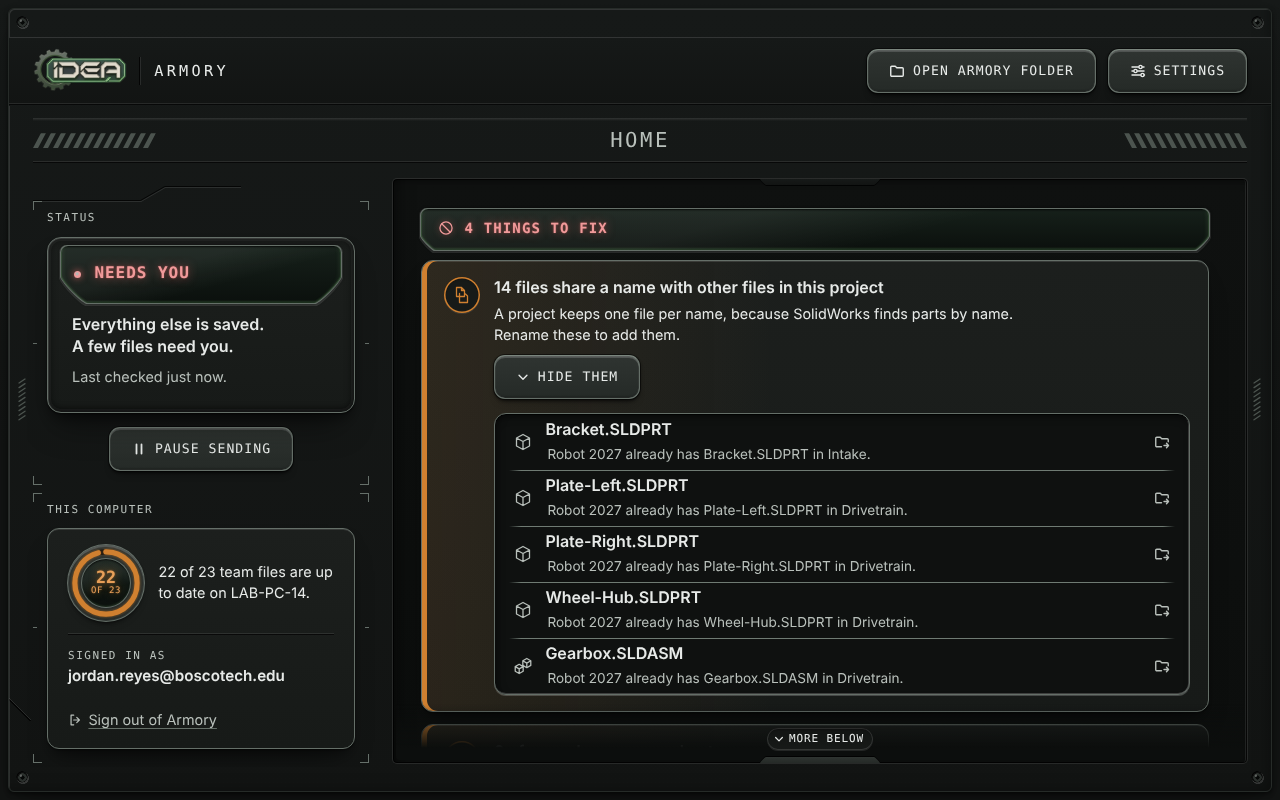
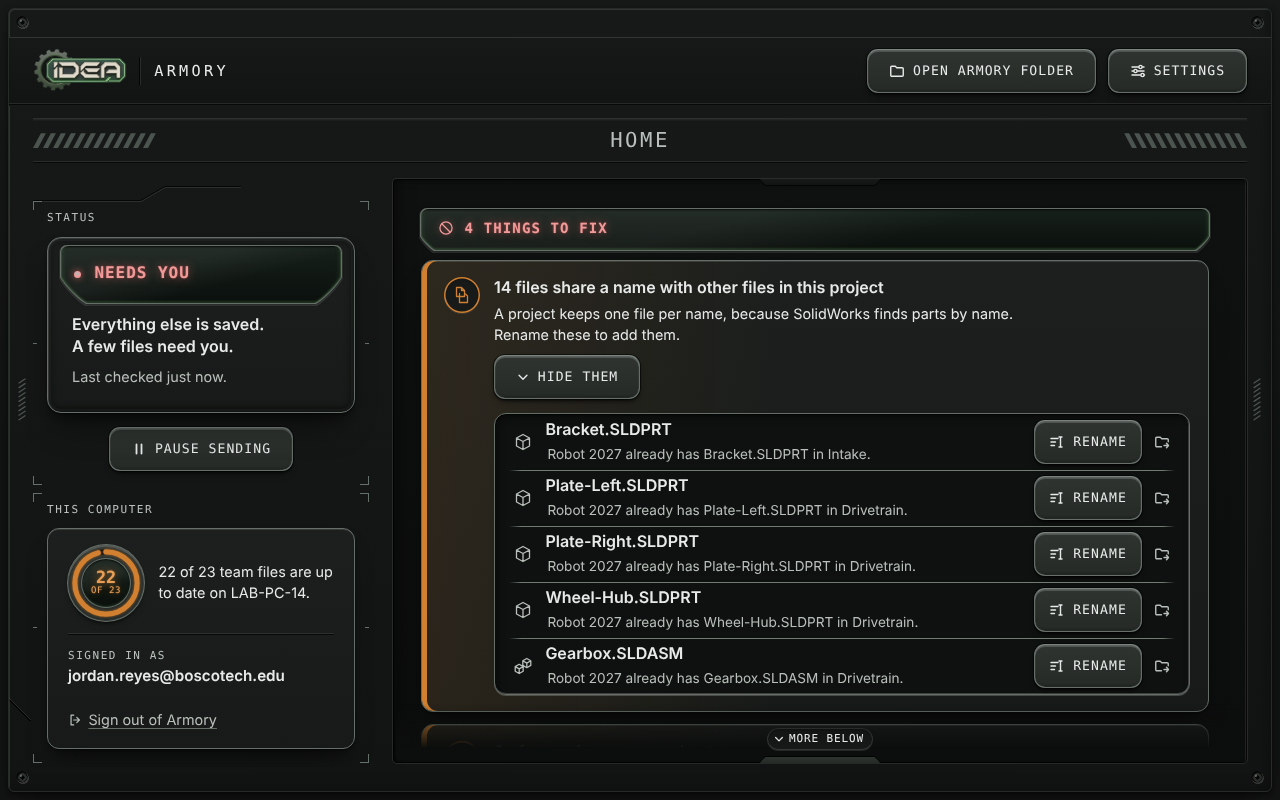
renameFile (addendum 7): a file that shares a name is renamed in the app
The page message renameFile {path, newName, requestId} is in
BridgeMessages, Bridge.cs (validated like every action) and bridge.js
(lists, required fields, JSDoc and the demo transport). Each item of a
"shares a name" notice has a Rename key that asks for the new name in
the small dialog. The host sends it to SyncEngine.RenameFileAsync: a
file Armory does not have is renamed on this computer and offered again
under its new name; a file in Armory is moved for everyone through
armory_move_file, and not while someone else has it checked out.
check-ui sends all 23 page messages (CHECK-UI PASS); the four
groupedNoticesExpanded screens are re-rendered with the Rename keys.

Claude-Session: https://claude.ai/code/session_011o56v8JVA7WxDbS87VqBJ6

Changed region(s): [[0.7812, 0.5, 0.9062, 0.875]]

diff --git a/src/Armory.Agent/wwwroot/app.js b/src/Armory.Agent/wwwroot/app.js
@@ -955,7 +955,7 @@
 				cls: 'items',
 				label: n.title,
 				items: n.items.map(function (it) {
-					return { kind: 'item', notice: n.key, item: it };
+					return { kind: 'item', notice: n.key, noticeKind: n.kind, item: it };
 				}),
 				key: function (x) {
 					return 'ni:' + x.notice + ':' + (x.item.fileId || x.item.path);
@@ -982,6 +982,12 @@
 	function itemRow(x, i, active) {
 		var it = x.item;
 		var k = 'ni:' + x.notice + ':' + (it.fileId || it.path);
+		// A file that shares a name can be renamed right here, then it is added by itself.
+		var extra =
+			x.noticeKind === 'nameShared'
+				? '<button class="key row-key" type="button" data-rove="rename" data-action="askRenameFile" data-path="' + esc(it.path) + '" data-key="rename-' + esc(k) + '"' +
+				  ' aria-label="Rename ' + esc(it.name) + '" title="Rename ' + esc(it.name) + '">' + icon('rename') + '<span class="key-word">Rename</span></button>'
+				: '';
 		return rowHtml({
 			i: i,
 			vkey: k,
@@ -990,6 +996,7 @@
 			k: k,
 			name: it.name,
 			line: '<span class="row-meta">' + esc(it.detail || whereIs(it.path)) + '</span>',
+			extra: extra,
 			go: it.fileId ? 'chev-right' : 'folder-go'
 		});
 	}
@@ -1569,6 +1576,11 @@
 			body = 'Rename ' + c.name + ' in ' + c.parentWhere + '. Everyone on the team sees the new name, and its files keep their history.';
 			field = fieldHtml('New name', c.name);
 			ok = 'Rename';
+		} else if (kind === 'renameFile') {
+			title = 'Rename file';
+			body = 'Rename ' + c.name + ' in ' + c.where + '. A project keeps one file per name, so pick a name no other file in the project has.';
+			field = fieldHtml('New name', c.name);
+			ok = 'Rename';
 		} else if (kind === 'deleteFolder') {
 			title = 'Delete folder';
 			body =
@@ -1605,12 +1617,13 @@
 		);
 	}
 
-	/** Why a folder name won't do, in plain words, or null when it will. */
+	/** Why a folder or file name won't do, in plain words, or null when it will. */
 	function nameProblem(name, c) {
-		if (!name) return 'Type a name for the folder.';
-		if (BAD_NAME.test(name)) return 'A folder name can\'t use any of these: \\ / : * ? " < > |';
-		if (/^\.+$/.test(name) || /[. ]$/.test(name)) return 'A folder name can\'t end with a dot or a space.';
-		if (c.kind === 'renameFolder' && name === c.name) return 'That is already its name.';
+		var what = c.kind === 'renameFile' ? 'file' : 'folder';
+		if (!name) return 'Type a name for the ' + what + '.';
+		if (BAD_NAME.test(name)) return 'A ' + what + ' name can\'t use any of these: \\ / : * ? " < > |';
+		if (/^\.+$/.test(name) || /[. ]$/.test(name)) return 'A ' + what + ' name can\'t end with a dot or a space.';
+		if ((c.kind === 'renameFolder' || c.kind === 'renameFile') && name === c.name) return 'That is already its name.';
 		var taken = (c.siblings || []).some(function (s) {
 			return s.toLowerCase() === name.toLowerCase() && !(c.kind === 'renameFolder' && s.toLowerCase() === c.name.toLowerCase());
 		});
@@ -1622,7 +1635,7 @@
 		var a = ui.ask;
 		if (!a) return;
 		var c = a.ctx;
-		if (a.kind === 'newFolder' || a.kind === 'renameFolder') {
+		if (a.kind === 'newFolder' || a.kind === 'renameFolder' || a.kind === 'renameFile') {
 			var input = ask.querySelector('#ask-name');
 			var name = input.value.trim();
 			var problem = nameProblem(name, { kind: a.kind, name: c.name, siblings: c.siblings, where: c.where, parentWhere: c.parentWhere });
@@ -1632,7 +1645,8 @@
 				input.focus();
 				return;
 			}
-			if (a.kind === 'newFolder') act('createFolder', { projectId: c.projectId, parent: c.folder, name: name });
+			if (a.kind === 'renameFile') act('renameFile', { path: c.path, newName: name });
+			else if (a.kind === 'newFolder') act('createFolder', { projectId: c.projectId, parent: c.folder, name: name });
 			else {
 				act('renameFolder', { projectId: c.projectId, folder: c.folder, newName: name });
 				// When the host's next view has the new name, the browser goes with it.
@@ -1675,6 +1689,12 @@
 		if (kind !== 'newFolder' && !c.folder) return;
 		c.siblings = kind === 'newFolder' ? c.siblingsHere : c.siblingsParent;
 		openAsk(kind, c, from);
+	}
+
+	/** Rename one file (a file that shares a name with another in its project). */
+	function askRenameFile(path, from) {
+		var parts = String(path).split('/');
+		openAsk('renameFile', { path: path, name: parts[parts.length - 1], where: parts.slice(0, -1).join(' \u203a '), siblings: [] }, from);
 	}
 
 	/** Take back one file, or the picked files someone else has. */
@@ -2191,6 +2211,9 @@
 				break;
 			case 'askTakeBack':
 				askTakeBack([findRow(el.getAttribute('data-file-id'))], from);
+				break;
+			case 'askRenameFile':
+				askRenameFile(path, from);
 				break;
 			case 'promptCheckOut':
 				act('checkOut', { paths: [path], open: false });

diff --git a/src/Armory.Agent/wwwroot/bridge.js b/src/Armory.Agent/wwwroot/bridge.js
@@ -258,13 +258,14 @@
 	 *   checkOut: { paths, open }             (files or folders, vault-relative)
 	 *   checkIn: { paths }    undoCheckOut: { paths }    takeBack: { fileId }
 	 *   createFolder: { projectId, parent, name }    renameFolder: { projectId, folder, newName }
-	 *   deleteFolder: { projectId, folder }   addFiles: { projectId, folder }
+	 *   deleteFolder: { projectId, folder }   renameFile: { path, newName }
+	 *   addFiles: { projectId, folder }
 	 *   dropFiles: { projectId, folder }      (sent with the dropped File objects)
 	 *   dismissNotice: { key }
 	 *   saveSettings: { vaultRoot, startAtSignIn, theme }
 	 * @typedef {'ready' | 'connect' | 'cancelConnect' | 'signOut' | 'pause' | 'resume'
 	 *   | 'openVault' | 'openFile' | 'launchFile' | 'showInFolder' | 'checkOut' | 'checkIn'
-	 *   | 'undoCheckOut' | 'takeBack' | 'createFolder' | 'renameFolder' | 'deleteFolder'
+	 *   | 'undoCheckOut' | 'takeBack' | 'createFolder' | 'renameFolder' | 'deleteFolder' | 'renameFile'
 	 *   | 'addFiles' | 'dropFiles' | 'dismissNotice' | 'saveSettings' | 'chooseVaultRoot'} PageMessageType
 	 */
 
@@ -286,7 +287,7 @@
 	/* ------------------------------------------------------- Message lists */
 
 	/** Page to host message types (BRIDGE.md, "Page to host"). */
-	var PAGE_TO_HOST = ['ready', 'connect', 'cancelConnect', 'signOut', 'pause', 'resume', 'openVault', 'openFile', 'launchFile', 'showInFolder', 'checkOut', 'checkIn', 'undoCheckOut', 'takeBack', 'createFolder', 'renameFolder', 'deleteFolder', 'addFiles', 'dropFiles', 'dismissNotice', 'saveSettings', 'chooseVaultRoot'];
+	var PAGE_TO_HOST = ['ready', 'connect', 'cancelConnect', 'signOut', 'pause', 'resume', 'openVault', 'openFile', 'launchFile', 'showInFolder', 'checkOut', 'checkIn', 'undoCheckOut', 'takeBack', 'createFolder', 'renameFolder', 'deleteFolder', 'renameFile', 'addFiles', 'dropFiles', 'dismissNotice', 'saveSettings', 'chooseVaultRoot'];
 
 	/** Host to page message types (BRIDGE.md, "Host to page"). */
 	var HOST_TO_PAGE = ['view', 'fileDetail', 'activity', 'actionResult'];
@@ -303,6 +304,7 @@
 		createFolder: ['projectId', 'parent', 'name'],
 		renameFolder: ['projectId', 'folder', 'newName'],
 		deleteFolder: ['projectId', 'folder'],
+		renameFile: ['path', 'newName'],
 		addFiles: ['projectId', 'folder'],
 		dropFiles: ['projectId', 'folder'],
 		dismissNotice: ['key'],
@@ -310,7 +312,7 @@
 	};
 
 	/** Actions: each carries a requestId, and the host answers it with one actionResult. */
-	var ACTIONS = ['launchFile', 'checkOut', 'checkIn', 'undoCheckOut', 'takeBack', 'createFolder', 'renameFolder', 'deleteFolder', 'addFiles', 'dropFiles'];
+	var ACTIONS = ['launchFile', 'checkOut', 'checkIn', 'undoCheckOut', 'takeBack', 'createFolder', 'renameFolder', 'deleteFolder', 'renameFile', 'addFiles', 'dropFiles'];
 
 	/* ----------------------------------------------------------- Plumbing */
 
@@ -625,6 +627,26 @@
 					refreshMine();
 					postView();
 					result(message, true, 'Deleted ' + message.folder.split('/').pop() + ' and the ' + words(gone, 'file', 'files') + ' in it. Their history is kept.');
+					break;
+				case 'renameFile':
+					// A file that shares a name is renamed here; it then has its own name to be added under.
+					var renamedFrom = message.path.split('/').pop();
+					view.notices = view.notices
+						.map(function (n) {
+							var left = n.items.filter(function (it) {
+								return it.path !== message.path;
+							});
+							if (left.length === n.items.length) return n;
+							var copy = clone(n);
+							copy.items = left;
+							copy.count = Math.max(0, n.count - 1);
+							return copy;
+						})
+						.filter(function (n) {
+							return n.count > 0;
+						});
+					postView();
+					result(message, true, 'Renamed ' + renamedFrom + ' to ' + message.newName + '.');
 					break;
 				case 'dismissNotice':
 					view.notices = view.notices.filter(function (n) {

diff --git a/src/Armory.Agent/Bridge.cs b/src/Armory.Agent/Bridge.cs
@@ -17,6 +17,7 @@ internal sealed record TakeBackMessage(string? FileId, string? RequestId);
 internal sealed record CreateFolderMessage(string? ProjectId, string? Parent, string? Name, string? RequestId);
 internal sealed record RenameFolderMessage(string? ProjectId, string? Folder, string? NewName, string? RequestId);
 internal sealed record DeleteFolderMessage(string? ProjectId, string? Folder, string? RequestId);
+internal sealed record RenameFileMessage(string? Path, string? NewName, string? RequestId);
 internal sealed record AddFilesMessage(string? ProjectId, string? Folder, string? RequestId);
 internal sealed record DropFilesMessage(string? ProjectId, string? Folder, string? RequestId);
 internal sealed record DismissNoticeMessage(string? Key);
@@ -61,6 +62,7 @@ internal sealed class Bridge(AgentHost host, IBridgeWindow window, AgentLog log)
         [BridgeMessages.CreateFolder] = typeof(CreateFolderMessage),
         [BridgeMessages.RenameFolder] = typeof(RenameFolderMessage),
         [BridgeMessages.DeleteFolder] = typeof(DeleteFolderMessage),
+        [BridgeMessages.RenameFile] = typeof(RenameFileMessage),
         [BridgeMessages.AddFiles] = typeof(AddFilesMessage),
         [BridgeMessages.DropFiles] = typeof(DropFilesMessage),
         [BridgeMessages.DismissNotice] = typeof(DismissNoticeMessage),
@@ -72,6 +74,7 @@ internal sealed class Bridge(AgentHost host, IBridgeWindow window, AgentLog log)
     private static readonly ActionResult NotAFile = new(false, "That isn't a file or folder in your Armory folder.");
     private static readonly ActionResult NotAProject = new(false, "That project isn't on this computer.");
     private static readonly ActionResult NotAName = new(false, "That name can't be used for a folder.");
+    private static readonly ActionResult NotAFileName = new(false, "That name can't be used for a file.");
 
     internal static bool TryRead(string webMessageJson, out string type, out JsonElement message)
     {
@@ -184,6 +187,13 @@ internal sealed class Bridge(AgentHost host, IBridgeWindow window, AgentLog log)
                         !Guid.TryParse(delete?.ProjectId, out var deleteIn) ? Refuse(NotAProject)
                         : !TryFolder(delete!.Folder, allowTop: false, out var deleted) ? Refuse(NotAFile)
                         : host.DeleteFolderAsync(deleteIn, deleted));
+                    break;
+                case BridgeMessages.RenameFile:
+                    var renameFile = Read<RenameFileMessage>(message);
+                    await AnswerAsync(renameFile?.RequestId,
+                        !TryPath(renameFile?.Path, out var renamedFile) ? Refuse(NotAFile)
+                        : !TryName(renameFile!.NewName, out var newFileName) ? Refuse(NotAFileName)
+                        : host.RenameFileAsync(renamedFile, newFileName));
                     break;
                 case BridgeMessages.AddFiles:
                     // The picker (the Windows file dialog) chooses the files once the engine

diff --git a/src/Armory.Agent.Engine/View/AgentView.cs b/src/Armory.Agent.Engine/View/AgentView.cs
@@ -102,9 +102,10 @@ public static class BridgeMessages
     public const string Ready = "ready", Connect = "connect", CancelConnect = "cancelConnect", SignOut = "signOut", Pause = "pause", Resume = "resume",
         OpenVault = "openVault", OpenFile = "openFile", LaunchFile = "launchFile", ShowInFolder = "showInFolder", CheckOut = "checkOut", CheckIn = "checkIn",
         UndoCheckOut = "undoCheckOut", TakeBack = "takeBack", CreateFolder = "createFolder", RenameFolder = "renameFolder", DeleteFolder = "deleteFolder",
-        AddFiles = "addFiles", DropFiles = "dropFiles", DismissNotice = "dismissNotice", SaveSettings = "saveSettings", ChooseVaultRoot = "chooseVaultRoot";
+        RenameFile = "renameFile", AddFiles = "addFiles", DropFiles = "dropFiles", DismissNotice = "dismissNotice", SaveSettings = "saveSettings",
+        ChooseVaultRoot = "chooseVaultRoot";
     public static readonly IReadOnlyList<string> PageToHost = [Ready, Connect, CancelConnect, SignOut, Pause, Resume, OpenVault, OpenFile, LaunchFile, ShowInFolder,
-        CheckOut, CheckIn, UndoCheckOut, TakeBack, CreateFolder, RenameFolder, DeleteFolder, AddFiles, DropFiles, DismissNotice, SaveSettings, ChooseVaultRoot];
+        CheckOut, CheckIn, UndoCheckOut, TakeBack, CreateFolder, RenameFolder, DeleteFolder, RenameFile, AddFiles, DropFiles, DismissNotice, SaveSettings, ChooseVaultRoot];
 
     public static readonly JsonSerializerOptions Json = new(JsonSerializerDefaults.Web)
     {

diff --git a/src/Armory.Agent/AgentHost.cs b/src/Armory.Agent/AgentHost.cs
@@ -114,6 +114,7 @@ internal sealed class AgentHost : IAsyncDisposable
     internal Task<ActionResult> CheckInAsync(IReadOnlyList<string> paths) => OnEngineAsync("check in", e => e.CheckInAsync(paths));
     internal Task<ActionResult> UndoCheckOutAsync(IReadOnlyList<string> paths) => OnEngineAsync("undo check out", e => e.UndoCheckOutAsync(paths));
     internal Task<ActionResult> TakeBackAsync(Guid fileId) => OnEngineAsync("take back", e => e.TakeBackAsync(fileId));
+    internal Task<ActionResult> RenameFileAsync(string path, string newName) => OnEngineAsync("rename a file", e => e.RenameFileAsync(path, newName));
     internal Task<ActionResult> CreateFolderAsync(Guid project, string parent, string name) => NotYet("new folder in " + project);
     internal Task<ActionResult> RenameFolderAsync(Guid project, string folder, string newName) => NotYet("rename a folder in " + project);
     internal Task<ActionResult> DeleteFolderAsync(Guid project, string folder) => NotYet("delete a folder in " + project);

diff --git a/docs/agent/BRIDGE.md b/docs/agent/BRIDGE.md
@@ -43,7 +43,7 @@ uses a demo transport that answers from `wwwroot/demo/states.js`. See "The demo"
 - **Settings** is a sheet over Home with exactly the folder (and Change), Start Armory
   when I sign in, and the theme.
 - **The small dialog** (`<dialog id="ask">`) asks New folder, Rename folder, Delete
-  folder and Take back. It is filled once when it opens and never redrawn by a host
+  folder, Rename file (a file that shares a name, from its notice item) and Take back. It is filled once when it opens and never redrawn by a host
   message, so typed words stay.
 
 Every file row shows who has it checked out, always: "Checked out by you" or "Checked
@@ -190,7 +190,7 @@ answers it with exactly one `actionResult` carrying the same id and a plain sent
 ("Checked out 12 of 14 files. Maria Lopez has 2 of them checked out.", "Checked in
 Plate.SLDPRT.", "Close Plate.SLDPRT in SolidWorks first."). The actions are
 `launchFile`, `checkOut`, `checkIn`, `undoCheckOut`, `takeBack`, `createFolder`,
-`renameFolder`, `deleteFolder`, `addFiles` and `dropFiles`.
+`renameFolder`, `deleteFolder`, `renameFile`, `addFiles` and `dropFiles`.
 
 | `type` | fields | sent by | effect |
 |---|---|---|---|
@@ -210,6 +210,7 @@ Plate.SLDPRT.", "Close Plate.SLDPRT in SolidWorks first."). The actions are
 | `createFolder` | `projectId`, `parent`, `name`, `requestId` | New folder, after the small dialog | makes the folder |
 | `renameFolder` | `projectId`, `folder`, `newName`, `requestId` | Rename folder, after the small dialog | renames it for everyone (refused, and put back, when someone else has a file in it checked out) |
 | `deleteFolder` | `projectId`, `folder`, `requestId` | Delete folder, after the small dialog | removes it and its files for everyone; their history is kept |
+| `renameFile` | `path`, `newName`, `requestId` | Rename on a "shares a name" notice item, after the small dialog | renames one file in its folder: on this computer for a file Armory does not have, for everyone (`armory_move_file`) for one it has; refused while someone else has it checked out |
 | `addFiles` | `projectId`, `folder`, `requestId` | Add files | host shows a file picker, then copies the files in |
 | `dropFiles` | `projectId`, `folder`, `requestId` (+ the dropped files) | a drop on the open folder's list | host copies the dropped files in |
 | `dismissNotice` | `key` | a notice's Done or OK (`dismissNotice` action) | the host drops that notice card |
